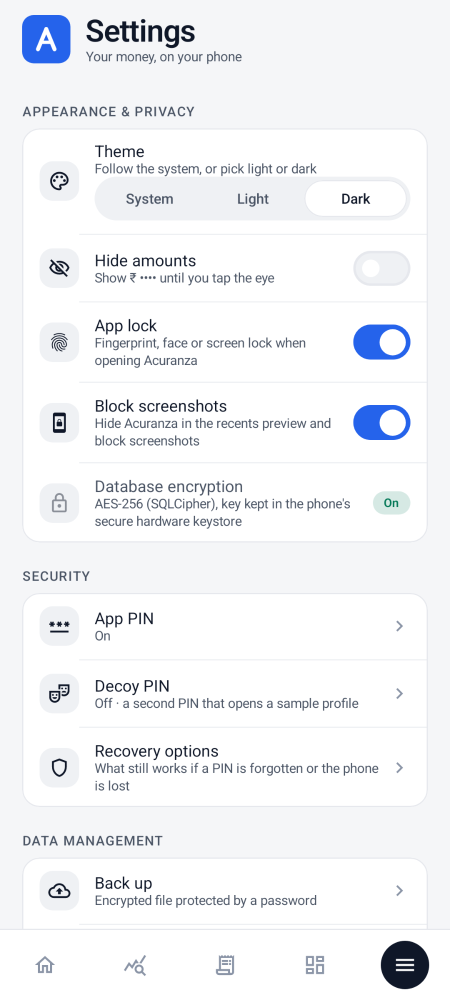
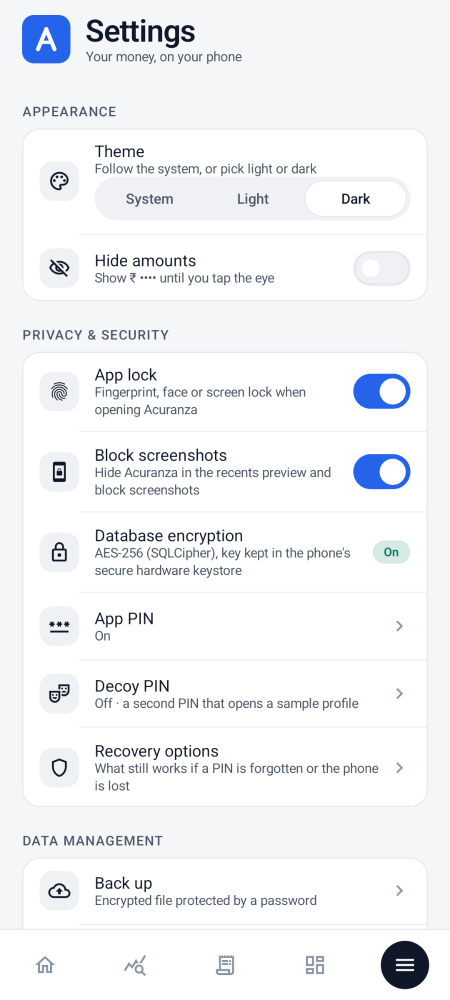
v1.7.4: Privacy & security section in Settings (app lock, screenshots, encryption, app PIN, decoy PIN, recovery); Appearance section slimmed to theme + hide amounts

Changed region(s): [[0.0622, 0.31, 0.7778, 0.589], [0.7778, 0.31, 0.9333, 0.589], [0.28, 0.093, 0.4356, 0.124]]

diff --git a/app/src/main/java/com/acuranza/app/ui/settings/MoreScreen.kt b/app/src/main/java/com/acuranza/app/ui/settings/MoreScreen.kt
@@ -22,13 +22,10 @@ import androidx.compose.foundation.lazy.items
 import androidx.compose.material.icons.Icons
 import androidx.compose.material.icons.outlined.Backup
 import androidx.compose.material.icons.outlined.DeleteForever
-import androidx.compose.material.icons.outlined.Fingerprint
 import androidx.compose.material.icons.outlined.Info
-import androidx.compose.material.icons.outlined.Lock
 import androidx.compose.material.icons.outlined.Palette
 import androidx.compose.material.icons.outlined.Restore
 import androidx.compose.material.icons.outlined.Science
-import androidx.compose.material.icons.outlined.ScreenLockPortrait
 import androidx.compose.material.icons.outlined.Sync
 import androidx.compose.material.icons.outlined.UploadFile
 import androidx.compose.material.icons.outlined.VisibilityOff
@@ -53,7 +50,6 @@ import androidx.compose.ui.platform.LocalContext
 import androidx.compose.ui.text.input.KeyboardType
 import androidx.compose.ui.text.input.PasswordVisualTransformation
 import androidx.compose.ui.unit.dp
-import androidx.fragment.app.FragmentActivity
 import androidx.lifecycle.compose.collectAsStateWithLifecycle
 import androidx.navigation.NavController
 import com.acuranza.app.ui.nav.Routes
@@ -68,15 +64,12 @@ import com.acuranza.app.designsystem.theme.AcuranzaText
 import com.acuranza.app.designsystem.theme.AcuranzaTheme
 import com.acuranza.app.model.TxnType
 import com.acuranza.app.security.BackupCrypto
-import com.acuranza.app.security.BiometricGate
-import com.acuranza.app.security.UnlockResult
 import com.acuranza.app.ui.common.ConfirmDialog
 import com.acuranza.app.ui.common.AcuranzaScreen
 import com.acuranza.app.ui.common.LocalContainer
 import com.acuranza.app.ui.common.LocalSettings
 import com.acuranza.app.ui.common.color
 import com.acuranza.app.ui.common.NO_FILE_PICKER
-import com.acuranza.app.ui.common.Pill
 import com.acuranza.app.ui.common.launchOrFalse
 import kotlinx.coroutines.launch
 import java.time.LocalDate
@@ -125,67 +118,18 @@ fun MoreScreen(nav: NavController) {
                 }
             }
             item(key = "appearance") {
-                SettingsSection("Appearance & privacy") {
+                SettingsSection("Appearance") {
                     SettingsRow(
                         "Theme",
                         "Follow the system, or pick light or dark",
                         Icons.Outlined.Palette,
-                        footer = {
-                            SegmentedTabs(
-                                listOf("System", "Light", "Dark"),
-                                ThemeMode.entries.indexOf(s.themeMode),
-                                onSelect = { scope.launch { c.settings.setThemeMode(ThemeMode.entries[it]) } },
-                                modifier = Modifier.padding(top = 10.dp),
-                            )
-                        },
                     )
                     SettingsToggle("Hide amounts", "Show ₹ •••• until you tap the eye", s.hideAmounts, { v -> scope.launch { c.settings.setHideAmounts(v) } },
-                        Icons.Outlined.VisibilityOff)
-                    val canLock = remember { BiometricGate.isAvailable(context) }
-                    SettingsToggle(
-                        "App lock",
-                        if (canLock) "Fingerprint, face or screen lock when opening Acuranza" else "Set a screen lock on your phone to use this",
-                        s.biometricLockEnabled,
-                        { v ->
-                            val activity = context as? FragmentActivity
-                            if (!v) {
-                                scope.launch { c.settings.setBiometricLock(false) }
-                            } else if (activity != null) {
-                                scope.launch {
-                                    if (BiometricGate.authenticate(activity, title = "Turn on app lock") == UnlockResult.Success) {
-                                        // The user just proved it's them: keep this session unlocked.
-                                        com.acuranza.app.ui.AppLock.markUnlocked()
-                                        c.settings.setBiometricLock(true)
-                                    }
-                                }
-                            }
-                        },
-                        Icons.Outlined.Fingerprint,
-                        enabled = canLock,
-                    )
-                    SettingsToggle(
-                        "Block screenshots",
-                        "Hide Acuranza in the recents preview and block screenshots",
-                        s.blockScreenshots,
-                        { v -> scope.launch { c.settings.setBlockScreenshots(v) } },
-                        Icons.Outlined.ScreenLockPortrait,
-                    )
-                    val encrypted = com.acuranza.app.data.DatabaseEncryption.status ==
-                        com.acuranza.app.data.DatabaseEncryption.Status.ENCRYPTED
-                    SettingsRow(
-                        "Database encryption",
-                        if (encrypted) "AES-256 (SQLCipher), key kept in the phone's secure hardware keystore" else "Acuranza will encrypt it on the next launch",
-                        Icons.Outlined.Lock,
-                        enabled = false,
-                        divider = false,
-                        trailing = {
-                            Pill(if (encrypted) "On" else "Pending", if (encrypted) AcuranzaTheme.colors.good else AcuranzaTheme.colors.warning)
-                        },
-                    )
+                        Icons.Outlined.VisibilityOff, divider = false)
                 }
             }
+            item(key = "privacy") { PrivacySecuritySection(onMessage = { show(it) }) }
             item(key = "tools") { com.acuranza.app.ui.tools.ToolsSection(onMessage = { show(it) }) }
-            item(key = "security") { SecuritySection(onMessage = { show(it) }) }
             item(key = "data") {
                 SettingsSection("Data management") {
                     SettingsRow("Back up", "Encrypted file protected by a password", Icons.Outlined.Backup, enabled = busy == null) {

diff --git a/app/src/main/java/com/acuranza/app/ui/settings/SecuritySection.kt b/app/src/main/java/com/acuranza/app/ui/settings/SecuritySection.kt
@@ -4,7 +4,10 @@ import androidx.compose.foundation.layout.Arrangement
 import androidx.compose.foundation.layout.Column
 import androidx.compose.foundation.text.KeyboardOptions
 import androidx.compose.material.icons.Icons
+import androidx.compose.material.icons.outlined.Fingerprint
+import androidx.compose.material.icons.outlined.Lock
 import androidx.compose.material.icons.outlined.Password
+import androidx.compose.material.icons.outlined.ScreenLockPortrait
 import androidx.compose.material.icons.outlined.Shield
 import androidx.compose.material.icons.outlined.TheaterComedy
 import androidx.compose.material3.AlertDialog
@@ -27,9 +30,16 @@ import androidx.compose.foundation.shape.RoundedCornerShape
 import androidx.compose.foundation.layout.fillMaxWidth
 import androidx.compose.ui.unit.dp
 import androidx.lifecycle.compose.collectAsStateWithLifecycle
+import androidx.fragment.app.FragmentActivity
+import com.acuranza.app.data.DatabaseEncryption
 import com.acuranza.app.designsystem.theme.AcuranzaTheme
+import com.acuranza.app.security.BiometricGate
 import com.acuranza.app.security.DecoySession
 import com.acuranza.app.security.PinHasher
+import com.acuranza.app.security.UnlockResult
+import com.acuranza.app.ui.AppLock
+import com.acuranza.app.ui.common.LocalContainer
+import com.acuranza.app.ui.common.Pill
 import com.acuranza.app.tools.ToolsPrefs
 import com.acuranza.app.tools.ToolsSettings
 import com.acuranza.app.ui.common.LocalSettings
@@ -40,13 +50,15 @@ import kotlinx.coroutines.withContext
 const val DECOY_PLACEHOLDER = "decoy"
 
 /**
- * Security settings: the app PIN that unlocks Acuranza, the decoy PIN that opens a sample
- * profile, and recovery options — what still works if a PIN is forgotten or the phone is lost.
+ * Privacy & security settings: the app lock, screenshot blocking, database encryption status,
+ * the app PIN that unlocks Acuranza, the decoy PIN that opens a sample profile, and recovery
+ * options — what still works if a PIN is forgotten or the phone is lost.
  */
 @Composable
-fun SecuritySection(onMessage: (String) -> Unit) {
+fun PrivacySecuritySection(onMessage: (String) -> Unit) {
     val context = LocalContext.current
     val s = LocalSettings.current
+    val c = LocalContainer.current
     val scope = rememberCoroutineScope()
     val store = remember { ToolsSettings.get(context) }
     val realPrefs by remember { store.prefs }.collectAsStateWithLifecycle(initialValue = ToolsPrefs())
@@ -59,7 +71,45 @@ fun SecuritySection(onMessage: (String) -> Unit) {
     var pinDialog by remember { mutableStateOf<PinAction?>(null) }
     var recoveryOpen by remember { mutableStateOf(false) }
 
-    SettingsSection("Security") {
+    SettingsSection("Privacy & security") {
+        val canLock = remember { BiometricGate.isAvailable(context) }
+        SettingsToggle(
+            "App lock",
+            if (canLock) "Fingerprint, face or screen lock when opening Acuranza" else "Set a screen lock on your phone to use this",
+            s.biometricLockEnabled,
+            { v ->
+                val activity = context as? FragmentActivity
+                if (!v) {
+                    scope.launch { c.settings.setBiometricLock(false) }
+                } else if (activity != null) {
+                    scope.launch {
+                        if (BiometricGate.authenticate(activity, title = "Turn on app lock") == UnlockResult.Success) {
+                            // The user just proved it's them: keep this session unlocked.
+                            AppLock.markUnlocked()
+                            c.settings.setBiometricLock(true)
+                        }
+                    }
+                }
+            },
+            Icons.Outlined.Fingerprint,
+            enabled = canLock,
+        )
+        SettingsToggle(
+            "Block screenshots",
+            "Hide Acuranza in the recents preview and block screenshots",
+            s.blockScreenshots,
+            { v -> scope.launch { c.settings.setBlockScreenshots(v) } },
+            Icons.Outlined.ScreenLockPortrait,
+        )
+        val encrypted = DatabaseEncryption.status == DatabaseEncryption.Status.ENCRYPTED
+        SettingsRow(
+            "Database encryption",
+            if (encrypted) "AES-256 (SQLCipher), key kept in the phone's secure hardware keystore" else "Acuranza will encrypt it on the next launch",
+            Icons.Outlined.Lock,
+            trailing = {
+                Pill(if (encrypted) "On" else "Pending", if (encrypted) AcuranzaTheme.colors.good else AcuranzaTheme.colors.warning)
+            },
+        )
         SettingsRow(
             "App PIN",
             when {

diff --git a/app/src/test/java/com/acuranza/app/screenshots/ScreensScreenshotTest.kt b/app/src/test/java/com/acuranza/app/screenshots/ScreensScreenshotTest.kt
@@ -227,26 +227,24 @@ class ScreensScreenshotTest {
                     Text("Your money, on your phone", style = MaterialTheme.typography.bodySmall, color = AcuranzaTheme.colors.subtleText)
                 }
             }
-            SettingsSection("Appearance & privacy") {
+            SettingsSection("Appearance") {
                 SettingsRow(
                     "Theme",
                     "Follow the system, or pick light or dark",
                     Icons.Outlined.Palette,
                     footer = { SegmentedTabs(listOf("System", "Light", "Dark"), 2, onSelect = {}) },
                 )
-                SettingsToggle("Hide amounts", "Show ₹ •••• until you tap the eye", false, {}, Icons.Outlined.VisibilityOff)
+                SettingsToggle("Hide amounts", "Show ₹ •••• until you tap the eye", false, {}, Icons.Outlined.VisibilityOff, divider = false)
+            }
+            SettingsSection("Privacy & security") {
                 SettingsToggle("App lock", "Fingerprint, face or screen lock when opening Acuranza", true, {}, Icons.Outlined.Fingerprint)
                 SettingsToggle("Block screenshots", "Hide Acuranza in the recents preview and block screenshots", true, {}, Icons.Outlined.ScreenLockPortrait)
                 SettingsRow(
                     "Database encryption",
                     "AES-256 (SQLCipher), key kept in the phone's secure hardware keystore",
                     Icons.Outlined.Lock,
-                    enabled = false,
-                    divider = false,
                     trailing = { Pill("On", AcuranzaTheme.colors.good) },
                 )
-            }
-            SettingsSection("Security") {
                 SettingsRow("App PIN", "On", Icons.Outlined.Password) {}
                 SettingsRow("Decoy PIN", "Off · a second PIN that opens a sample profile", Icons.Outlined.TheaterComedy) {}
                 SettingsRow("Recovery options", "What still works if a PIN is forgotten or the phone is lost", Icons.Outlined.Shield, divider = false) {}
